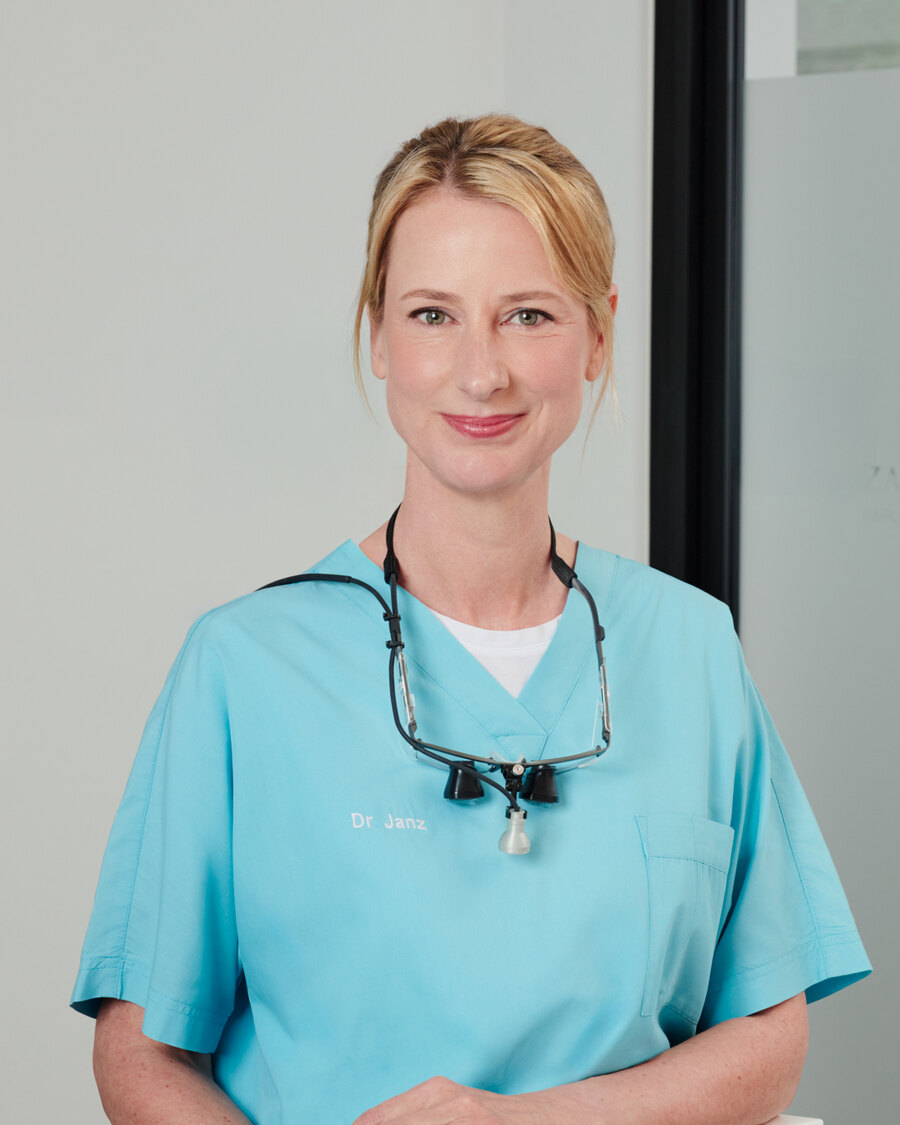
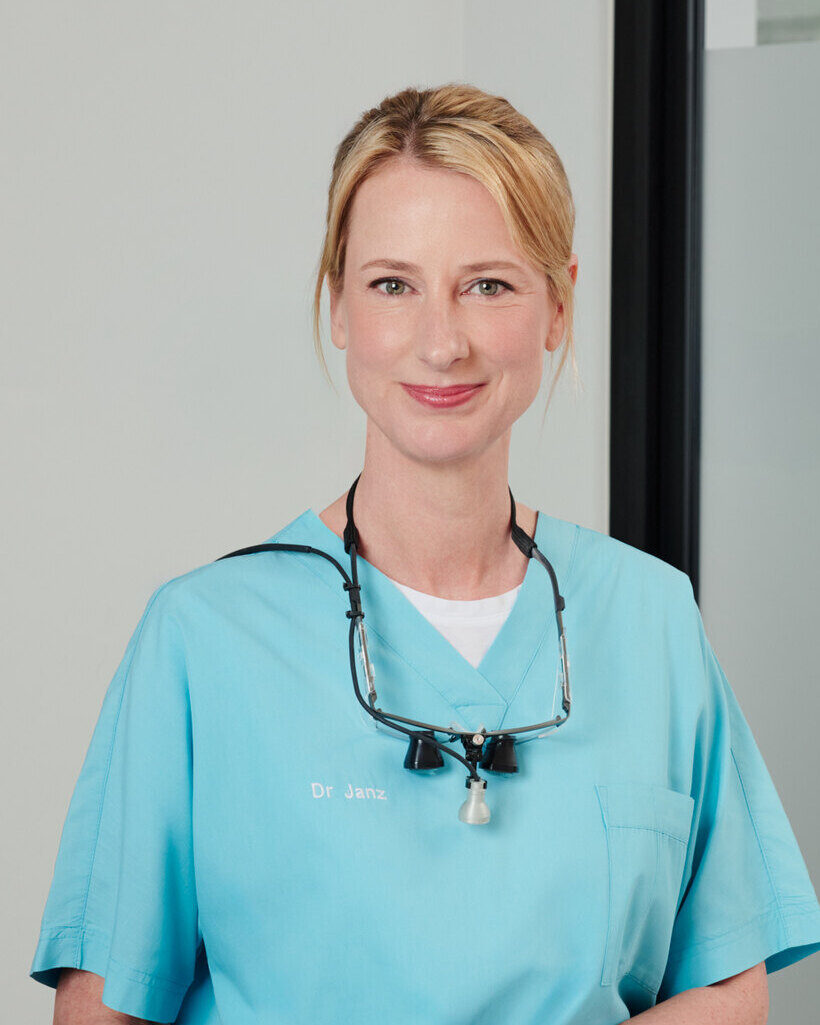
fix: Dr. Janz Portrait — Kopf höher im runden Rahmen
Das Foto saß in den runden/ovalen Rahmen zu tief. Da Bild UND Teamseiten-
Rahmen 4:5 sind, bewirkt object-position dort nichts → Bild selbst neu
beschnitten: 900x1125 → 820x1025 (Kopf höher, leichter Zoom auf Kopf+
Oberkörper). Fixt Teamseite (ganzes Bild) UND gibt im Startseiten-Kreis
einen größeren/höheren Kopf. Kreis-object-position 12% → 15%.

Geprüft via ImageMagick-Ausschnitte + unabhängig durch Codex bestätigt.

Changed region(s): [[0.2134, 0.0, 1.0, 1.0], [0.0305, 0.5932, 0.3354, 1.0], [0.1829, 0.562, 0.2134, 0.5932]]

diff --git a/app/[locale]/page.tsx b/app/[locale]/page.tsx
@@ -491,7 +491,7 @@ export default async function Homepage({ params }: { params: Promise<{ locale: s
                 <div className="relative mb-3 md:mb-6 inline-block">
                   <div className="absolute -inset-3 anim-blob opacity-40 hidden md:block" style={{ border: "1.5px solid rgba(242, 101, 34, 0.12)", borderRadius: "54% 46% 51% 49% / 49% 54% 46% 51%", animationDelay: `${i * 2}s` }} />
                   <div className="team-bild-hover relative overflow-hidden w-32 h-32 md:w-56 md:h-56 mx-auto" style={{ borderRadius: "50% 50% 44% 56% / 54% 44% 56% 46%", boxShadow: "0 22px 44px -10px rgba(105, 123, 123, 0.16)" }}>
-                    <Image src={a.bild} alt={a.name} fill className="object-cover" style={{ filter: "saturate(0.92) brightness(1.02)", objectPosition: i === 0 ? "center 28%" : "center 12%" }} />
+                    <Image src={a.bild} alt={a.name} fill className="object-cover" style={{ filter: "saturate(0.92) brightness(1.02)", objectPosition: i === 0 ? "center 28%" : "center 15%" }} />
                     <div className="absolute inset-0" style={{ background: "linear-gradient(to top, rgba(105, 123, 123, 0.08), transparent 40%)" }} />
                   </div>
                 </div>
